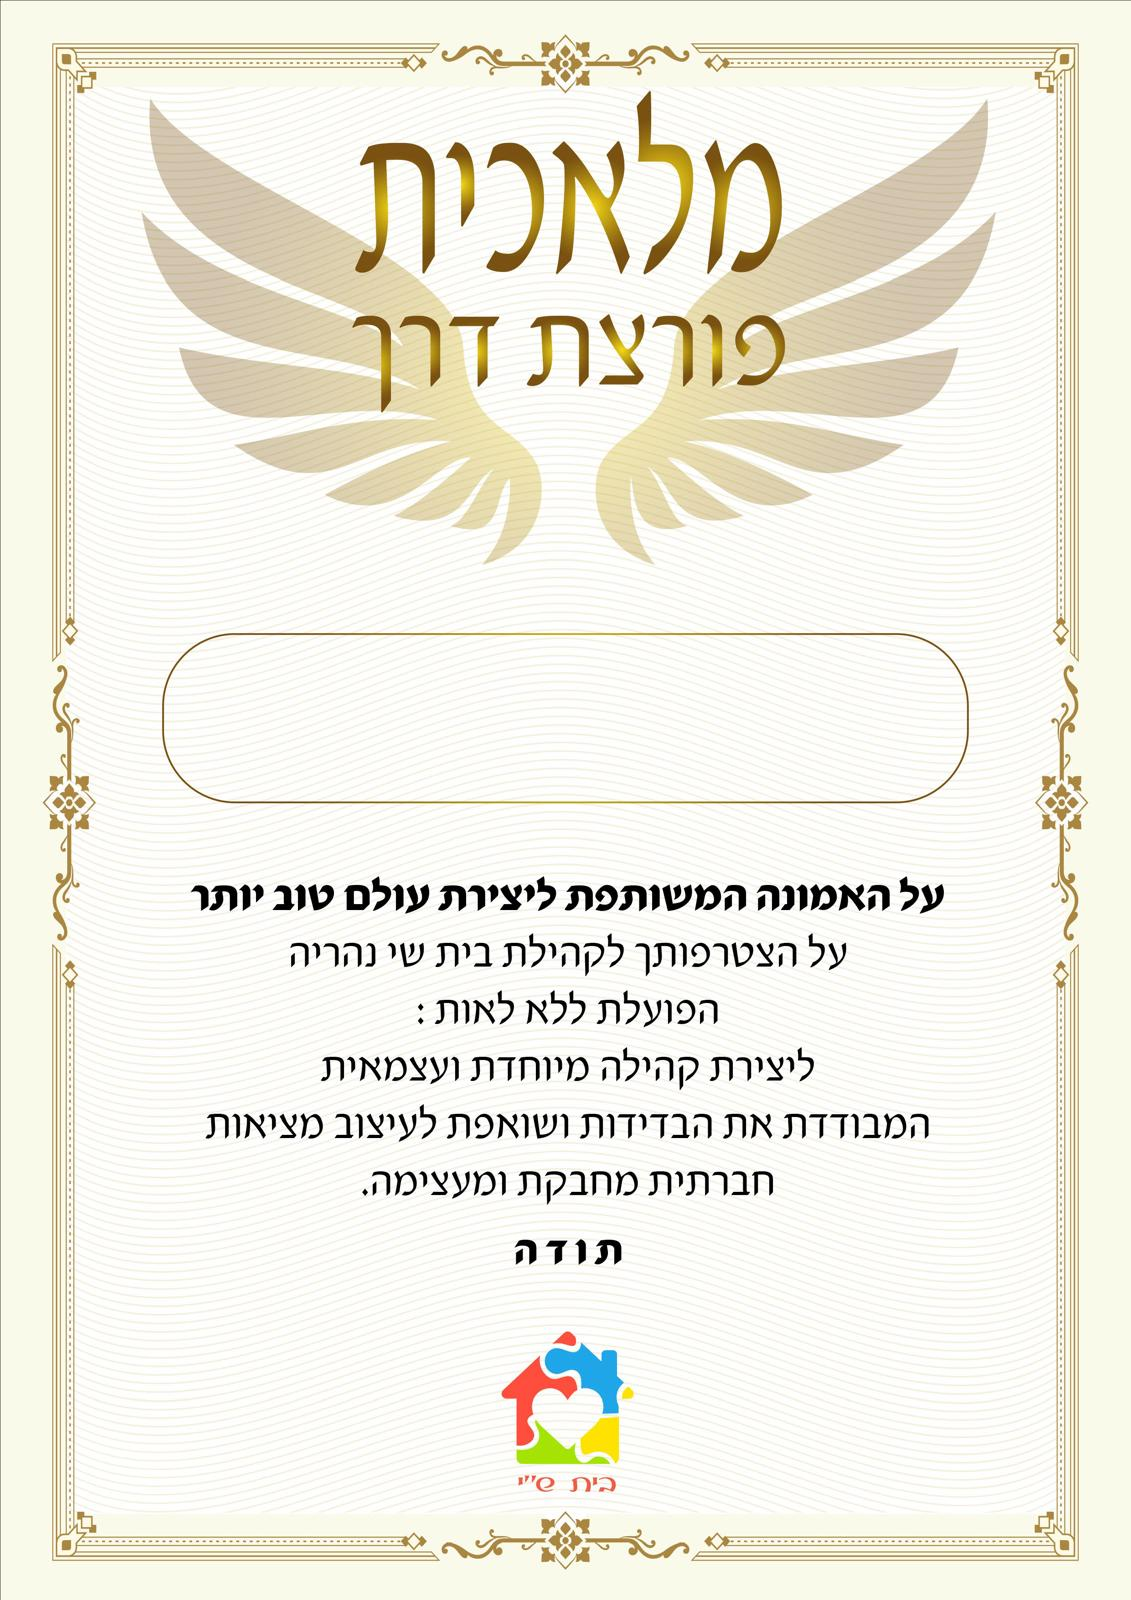
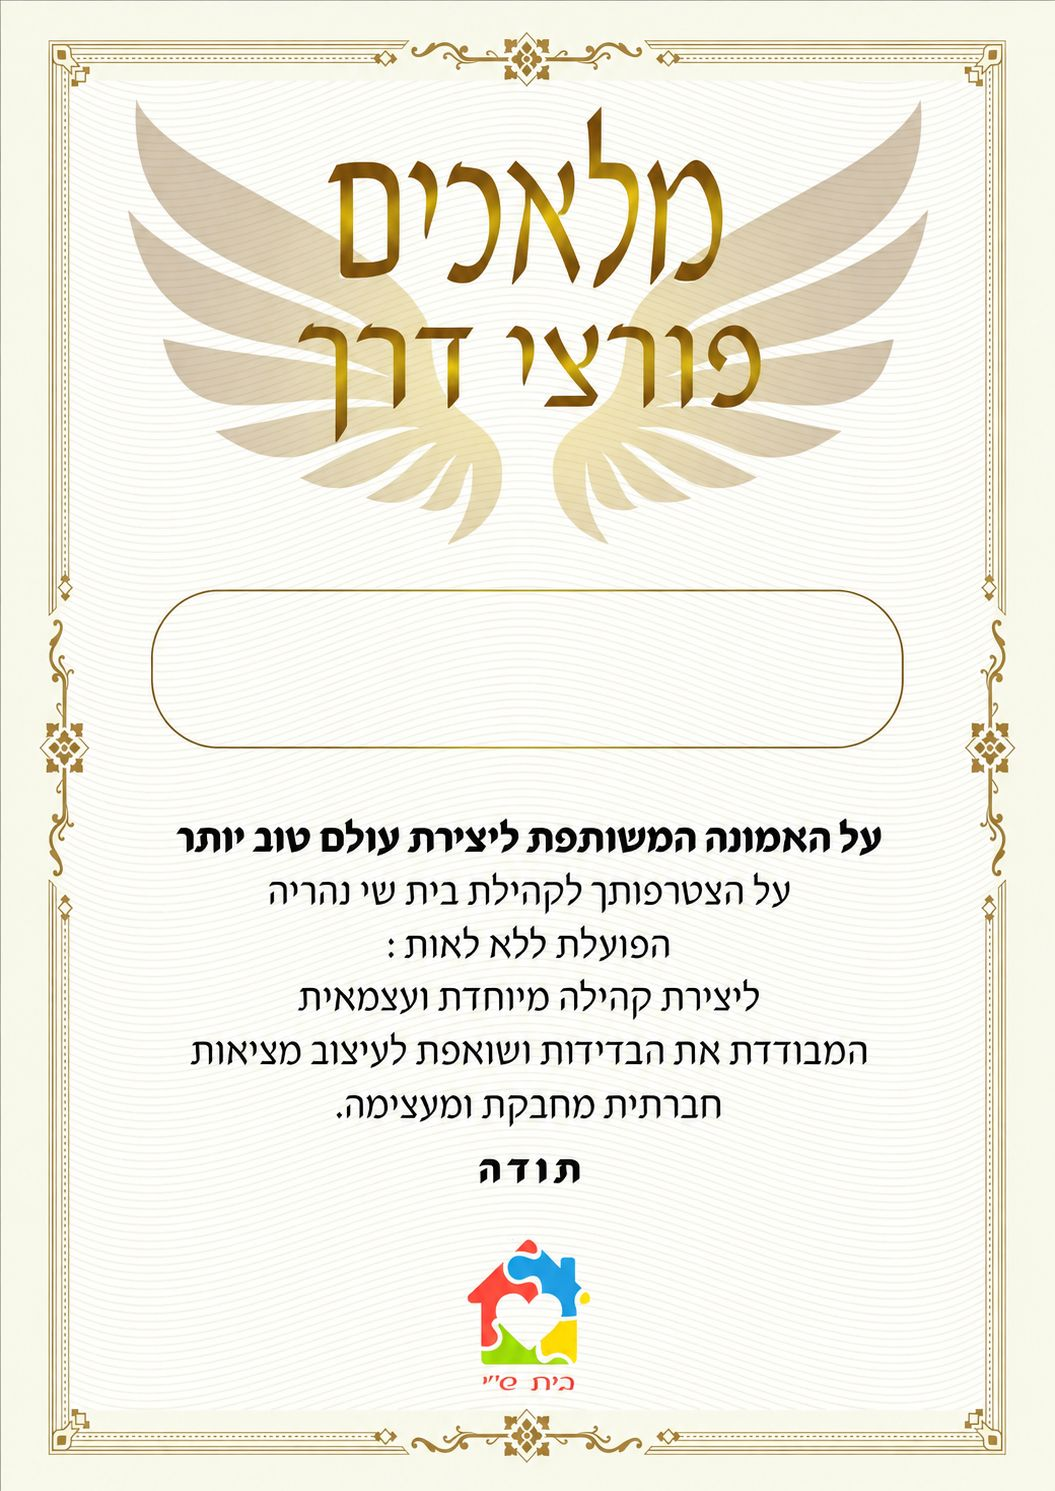
פאנל ניהול: תבנית תעודת תורם חדשה, ניטרלית מגדרית - הסרת בורר זכר/נקבה

diff --git a/admin.html b/admin.html
@@ -248,7 +248,7 @@ tbody tr:hover{background:#FCFDFF}
 .cert img{width:100%;height:100%;object-fit:cover;display:block}
 /* התיבה הריקה בתבנית - מיקום באחוזים כדי שיישאר נכון בכל גודל */
 .certName{
-  position:absolute;left:16.2%;right:16.2%;top:39.6%;height:10.2%;
+  position:absolute;left:15.5%;right:15.5%;top:40%;height:9.5%;
   display:grid;place-items:center;padding:0 12px;
 }
 .certName span{
@@ -742,13 +742,6 @@ R['/donations'] = function(){
       '<h3 style="font-size:16px;margin-bottom:4px">תצוגת התעודה</h3>'+
       '<p class="hint" style="margin-bottom:14px">השם נכתב על התבנית אוטומטית. הקלד כדי לראות.</p>'+
       '<div class="field"><label>שם התורם</label><input id="cName" value="מיכל אברהמי" /></div>'+
-      '<div class="field"><label>נוסח התעודה</label>'+
-        '<div class="seg" id="cSeg">'+
-          '<button data-g="f" class="on">נקבה · מלאכית</button>'+
-          '<button data-g="m">זכר · מלאך</button>'+
-        '</div>'+
-        '<p class="hint">התבנית שצורפה היא בלשון נקבה. לגרסת זכר צריך תבנית מקבילה.</p>'+
-      '</div>'+
       '<div class="cert"><img src="./public/images/certificate-template.jpg" alt="תבנית התעודה" />'+
         '<div class="certName"><span id="cOut">מיכל אברהמי</span></div></div>'+
       '<p class="certHint">כך תיראה התעודה שתישלח למייל</p>'+
@@ -757,13 +750,6 @@ R['/donations'] = function(){
 
   var nameEl=$('#cName'), outEl=$('#cOut');
   nameEl.oninput=function(){ outEl.textContent = nameEl.value || 'שם התורם'; };
-  Array.prototype.forEach.call(view.querySelectorAll('#cSeg button'), function(b){
-    b.onclick=function(){
-      Array.prototype.forEach.call(view.querySelectorAll('#cSeg button'),function(x){x.classList.remove('on');});
-      b.classList.add('on');
-      toast(b.dataset.g==='m' ? 'נוסח זכר — דורש תבנית נפרדת' : 'נוסח נקבה — התבנית הקיימת');
-    };
-  });
   view.addEventListener('click', function(e){
     var p=e.target.closest('[data-prev]'), s=e.target.closest('[data-send]');
     if(p){ var d=byId(+p.dataset.prev); nameEl.value=d.name; outEl.textContent=d.name;
